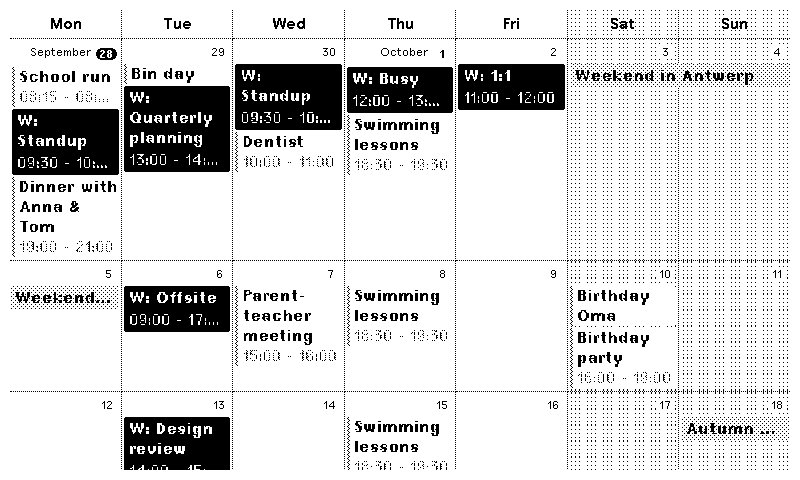
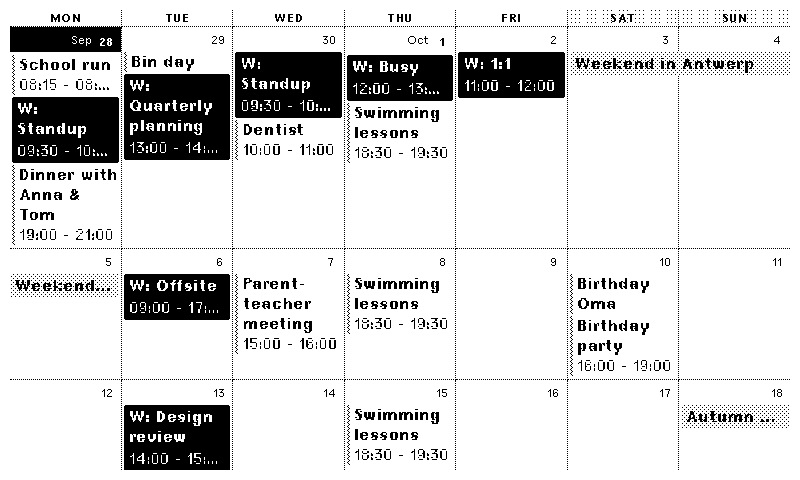
Design pass: busy-week and fade settings, quieter headers, today band, 1-bit fixes
- "Busy weeks" setting: show only the weeks that fit so no event is cut off
  (default), or keep at least 3 weeks and end full days with "+N more".
- "Fade past events" setting: events that are over are drawn faded
  (greyscale screens and Dither mode).
- Weekday names small, uppercase and letter-spaced; short month labels
  ("Sep" instead of a truncated "Septem...").
- Today: a black band across the top of the cell instead of a pill.
- 1-/2-bit with Adapt styles: weekend shading only in the header row and
  event times in solid black, as the grey dot patterns broke up the pixel fonts.
- README screenshots regenerated.

Claude-Session: https://claude.ai/code/session_01DCfjsPe6GH25dcugd6rvFh

diff --git a/README.md b/README.md
@@ -168,16 +168,25 @@ place and keeps your settings.
 | Time format | 24 hour | |
 | Show event times / end times | yes / yes | Times go on their own line below the title. End times only show with event times on |
 | Show past events | yes | Earlier days of the current week |
-| Highlight today | yes | |
+| Highlight today | yes | Today's day number sits in a black band across the top of its cell |
+| Fade past events | yes | Events that are over are drawn faded. Greyscale screens (TRMNL X) and `Dither` only |
 | Shade weekends | yes | |
+| Busy weeks | Show fewer weeks | What happens when the weeks don't all fit, see below |
 | Show title bar | no | The framework's title bar, with the recipe name and the visible date range |
 | Show week numbers | no | |
 | Greys on 1-bit / 2-bit screens | Adapt styles | `Adapt` uses the framework's greys, which become dither patterns on 1-/2-bit screens. `Dither` paints plain greys and has LaraPaper Floyd–Steinberg dither the whole screen. LaraPaper dithers 4-bit output (TRMNL X) either way, so this only matters for 1-bit and 2-bit devices |
 | Locale | `en` | Day/month names, e.g. `nl`, `de` |
 | Ignore events containing / titled exactly | – | Same filters as upstream |
 
-The grid shows as many whole weeks (4–6) as fit, like upstream: busy weeks make
-rows taller, so fewer fit. In a very busy month the 4th week can be cut off.
+The grid shows as many whole weeks (up to 6) as fit: busy weeks make rows taller, so
+fewer fit. With **Busy weeks** set to `Show fewer weeks` it shows only the weeks that
+fit, so every event stays visible even if that is only a week or two. `Show "+N more"`
+keeps at least 3 weeks and ends a day that doesn't fit with "+N more". (Upstream keeps
+at least 4 weeks and cuts a very busy 4th week off at the bottom.)
+
+On 1-bit and 2-bit screens with `Adapt styles`, weekends are shaded in the header row
+only and event times are solid black, because the framework's grey dot patterns make
+the pixel fonts on top of them hard to read.
 
 <sub>Greys on a 1-bit screen: <b>Adapt styles</b> (left) vs <b>Dither</b> (right).</sub><br>
 <img src="docs/preview-1bit-adapt.png" width="49%"> <img src="docs/preview-1bit-dither.png" width="49%">

diff --git a/UPSTREAM.md b/UPSTREAM.md
@@ -15,7 +15,8 @@ treats its native plugins as source-available and is fine with them being remixe
 
 - FullCalendar `rollingMonth` view: `dayGridMonth` with a week duration,
   `fixedWeekCount: false`, `dateAlignment: 'day'` for daily advancement.
-- Rendering 6 weeks, then re-rendering with only the 4–6 weeks that fit on screen.
+- Rendering 6 weeks, then re-rendering with only the weeks that fit on screen (see
+  Changed for how many at least).
 - Day cells show only the number; the 1st of a month gets a month-name label.
 - The ResizeObserver reflow fix for multi-day events (usetrmnl/core#2951).
 - `displayEventEnd: true`, ISO week numbers, `eventTimeFormat`, the `now` / `initialDate`
@@ -48,6 +49,18 @@ treats its native plugins as source-available and is fine with them being remixe
   too): they are drawn like timed events, with the bar and no time.
   Grid lines are thin grey (dotted on 1-/2-bit), headers are centred and bold with the
   weekend shaded, and day numbers are small.
+- **Busy weeks**: upstream keeps at least 4 weeks, so a very busy month is cut off at
+  the bottom. Here the `week_overflow` setting either shows only the weeks that fit
+  (down to 1, the default) or keeps at least 3 and caps days with FullCalendar's
+  `dayMaxEvents` ("+N more").
+- **Day headers and today**: weekday names are small, uppercase and letter-spaced
+  instead of `text--base`; month labels use the short month name ("Sep") instead of the
+  long one, which got cut off. Today is marked by a black band across the top of its
+  cell rather than a pill around the number. Events that are over are faded
+  (`fade_past_events`, greyscale screens and `Dither` only).
+- **1-/2-bit screens** (`Adapt styles`): weekend shading only in the header row, and
+  event times in solid black instead of `text--muted`, since grey patterns break up
+  the pixel fonts.
 - **Title bar**: the framework's `title_bar` with the visible date range replaces
   FullCalendar's `headerToolbar` (`month_header`).
 - **Removed**: time-grid helpers (`trmnlAllDaySlotAuto`, `trmnlSlotBoundsAuto`, the
